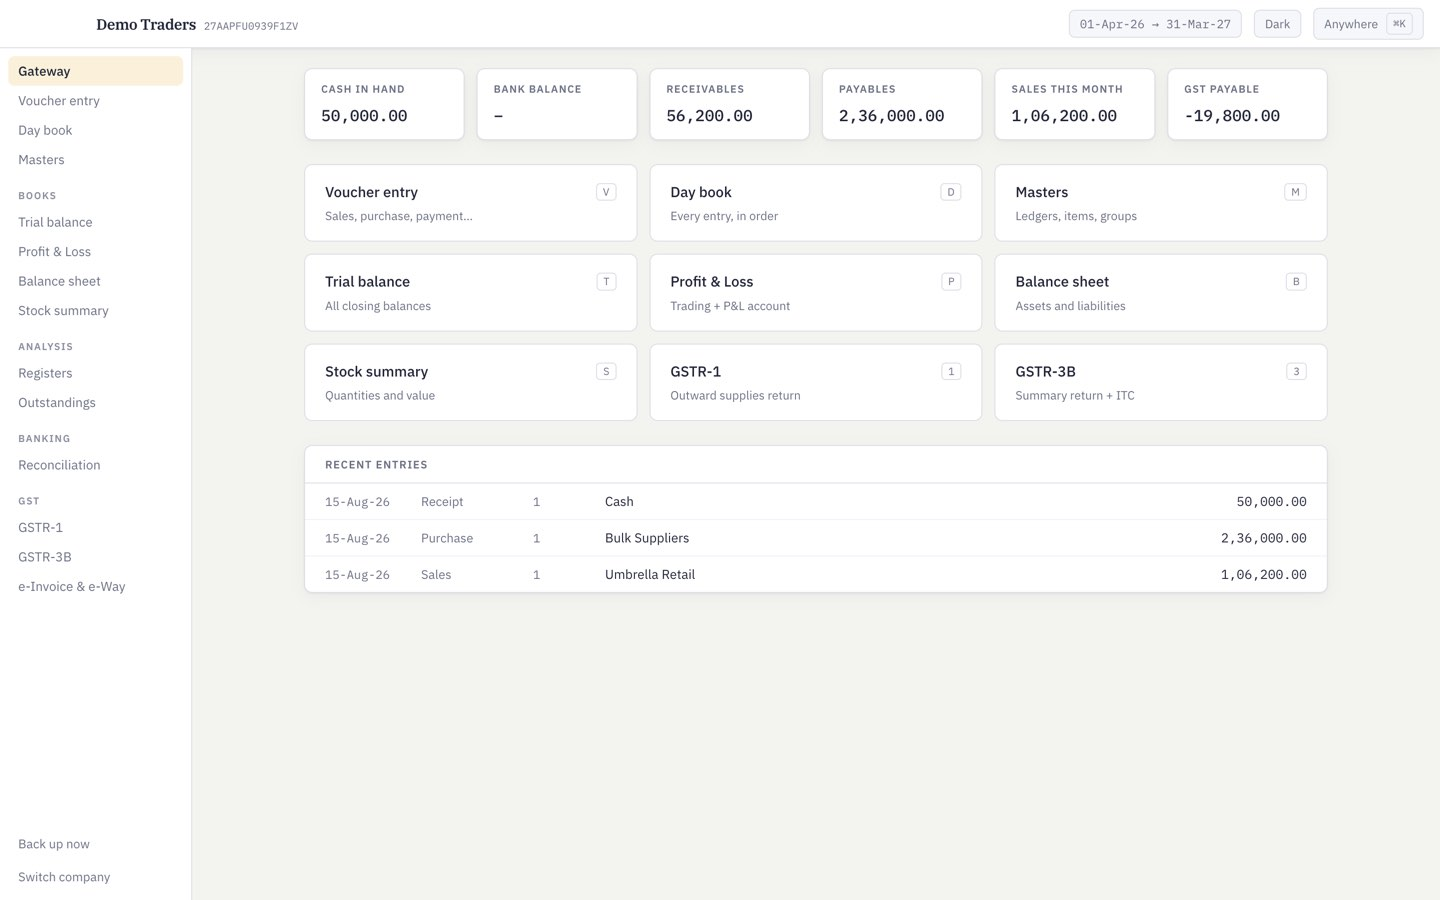
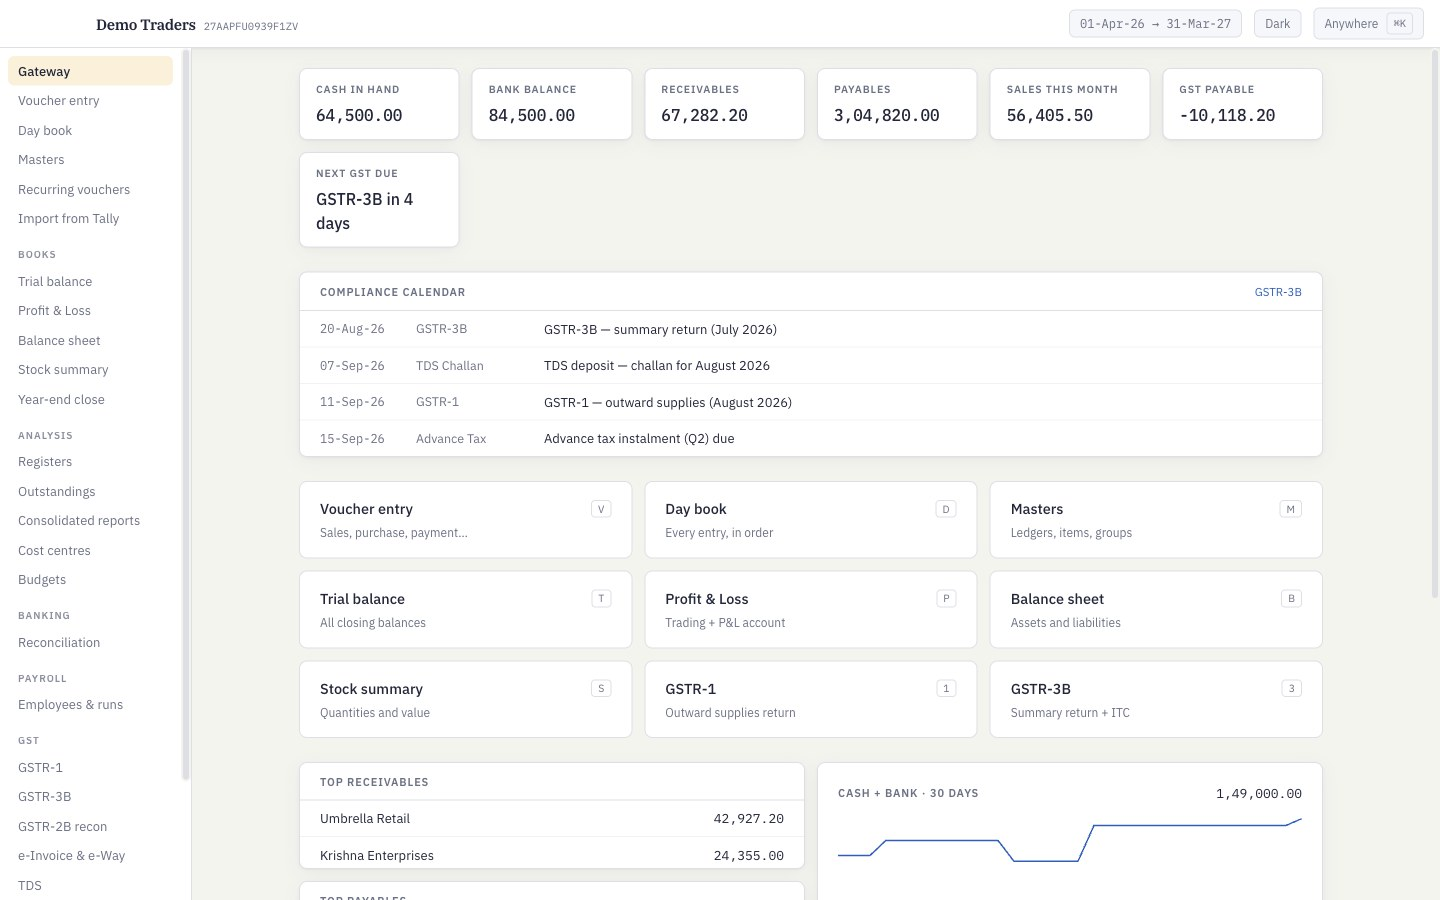
feat(site): fresh product screenshots + proof section
Gateway v2, GSTR-1 and dark-theme voucher shots captured live from the
built app via a fresh scripts/shots-site.mjs driver (demo company,
clean temp data dir), replacing stale gateway/voucher images and adding
gstr1-light.jpg. Homepage gets a "Proof, not promises" section after
the feature ledger with a responsive 2-up .shots-grid.

diff --git a/site/app/page.tsx b/site/app/page.tsx
@@ -3,6 +3,7 @@ import Link from 'next/link'
 import { latestRelease } from '@/lib/release'
 import gatewayLight from '@/public/gateway-light.jpg'
 import voucherDark from '@/public/voucher-dark.jpg'
+import gstr1Light from '@/public/gstr1-light.jpg'
 
 const FEATURES: { f: string; p: string }[] = [
   { f: 'Vouchers', p: 'Contra to credit note, invoice mode with live GST, audit log on every change' },
@@ -128,6 +129,29 @@ export default async function Home(): Promise<React.JSX.Element> {
                 </tr>
               </tbody>
             </table>
+          </div>
+        </section>
+
+        <section id="proof">
+          <h2 className="serif">Proof, not promises</h2>
+          <p className="sub">Two screens from the app itself, running on the same demo books as the ledger above.</p>
+          <div className="shots-grid">
+            <figure>
+              <Image
+                src={gstr1Light}
+                alt="GSTR-1 return screen showing B2B, B2C and total sections computed from voucher entries"
+                sizes="(max-width: 800px) 100vw, 486px"
+              />
+              <figcaption className="caption">GSTR-1 computed from your books — no separate filing sheet, nothing re-keyed.</figcaption>
+            </figure>
+            <figure>
+              <Image
+                src={voucherDark}
+                alt="Sales voucher entry in dark theme with the party ledger picker open"
+                sizes="(max-width: 800px) 100vw, 486px"
+              />
+              <figcaption className="caption">Dark theme, mid-entry — the ledger picker suggests as you type.</figcaption>
+            </figure>
           </div>
         </section>
       </div>

diff --git a/site/app/globals.css b/site/app/globals.css
@@ -176,6 +176,11 @@ h1 .quiet { color: var(--muted); }
 .shot img { display: block; width: 100%; height: auto; border: 1px solid var(--line); border-radius: 12px; box-shadow: var(--shadow); }
 .caption { text-align: center; color: var(--muted); font-size: 13px; margin-top: 14px; }
 
+/* ---------- proof section (2-up screenshots) ---------- */
+.shots-grid { display: grid; grid-template-columns: 1fr 1fr; gap: 28px; margin-top: 34px; }
+.shots-grid img { display: block; width: 100%; height: auto; border: 1px solid var(--line); border-radius: 12px; box-shadow: var(--shadow); }
+@media (max-width: 800px) { .shots-grid { grid-template-columns: 1fr; } }
+
 /* ---------- sections ---------- */
 section { padding: 88px 0 0; }
 h2 { font-size: clamp(28px, 4vw, 40px); letter-spacing: -0.01em; line-height: 1.12; text-wrap: balance; margin-bottom: 10px; }
